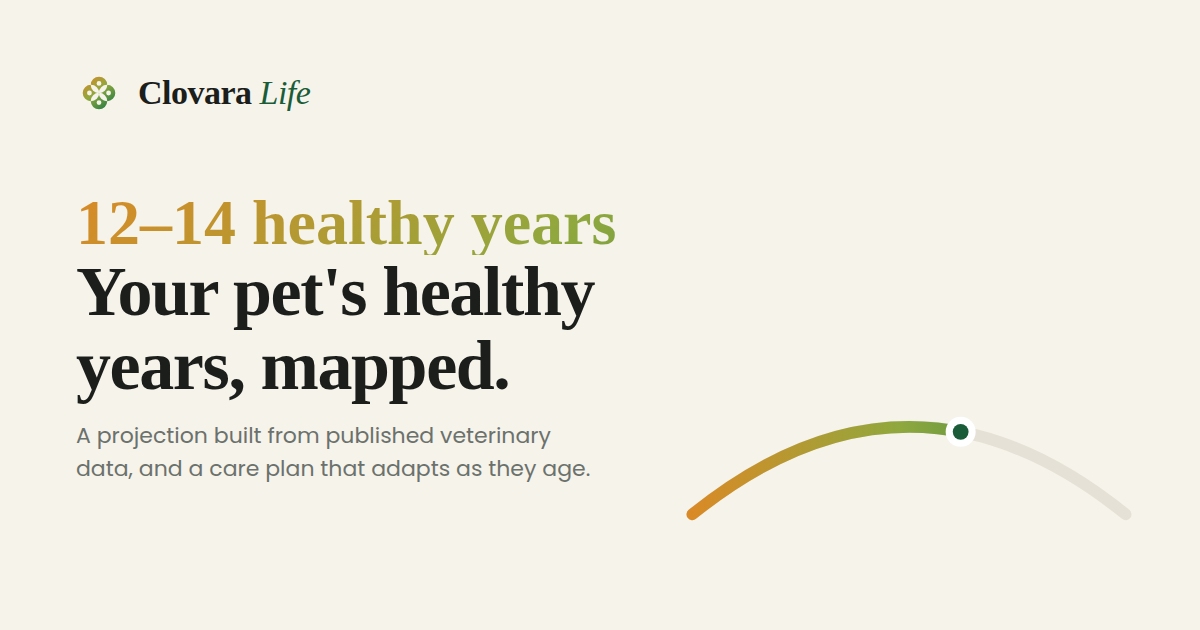
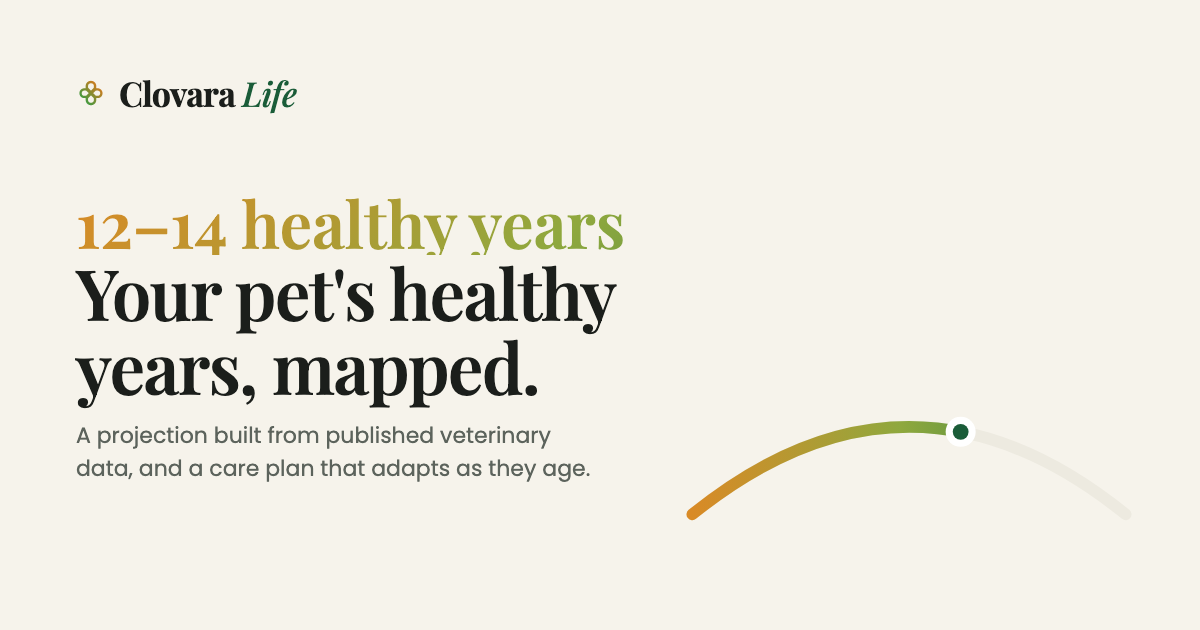
UI pass 2/6: one mark file — replace four redrawn clovers
DESIGN.md §1 lists two redrawn clovers to replace. The audit found four,
plus the generator that made a fifth:

- src/components/CloverMark.tsx drew four circles and four holes in a plus.
  It now imports assets/images/clovara_mark_refined.svg, which Vite
  fingerprints into one immutable asset (138kB, 23.6kB gzipped). Every in-app
  surface uses this component, so nine call sites follow. It renders as an
  <img>, so it cannot be recoloured, stretched or given effects, and returns
  nothing below the 20px minimum.
- public/favicon.svg was the circle-built approximation. It is now a
  byte-for-byte copy of the canonical, written by the icon script.
- public/partners/walkthrough.html defined its own rounded-rect mark with a
  hole mask and used it six times, one inside a JS string. All six are now
  <img src="mark.svg">; mark.svg was verified byte-identical to the canonical
  before use. The gradient def stays — the mockup's score ring uses it.
- src/share/renderCard.ts painted four circles on the canvas "so there was no
  asset to fetch". It now draws the canonical file, and draws no mark at all
  rather than a guess if loading fails.
- scripts/make-icons.mjs drew its own clover for og.png and the app icon.
  It now only places the canonical, copies it to favicon.svg and
  partners/mark.svg, and uses Playwright's own Chromium instead of a
  hard-coded Linux path it could not run on here.

The wordmark follows §1: Playfair Bold (700 now imported — a file from the
[…]

Changed region(s): [[0.0617, 0.3016, 0.5242, 0.5429], [0.0617, 0.5429, 0.4933, 0.754], [0.0617, 0.1206, 0.2775, 0.181]]

diff --git a/clovara-life/public/partners/walkthrough.html b/clovara-life/public/partners/walkthrough.html
@@ -188,7 +188,7 @@
 
   /* ---------- screen 5 coverage ---------- */
   .plan-card{background:var(--forest);color:#fff;border:none;position:relative;overflow:hidden}
-  .plan-card .cl{position:absolute;right:-24px;bottom:-34px;opacity:.14;transform:rotate(12deg)}
+  .plan-card .cl{position:absolute;right:-24px;bottom:-34px;opacity:.14;transform:rotate(12deg);filter:brightness(3)}
   .plan-card .k{font-size:10px;letter-spacing:.14em;text-transform:uppercase;opacity:.75;font-weight:600}
   .plan-card .t{font-family:'Playfair Display',serif;font-size:21px;font-weight:600;margin-top:4px}
   .plan-card .meta{display:flex;gap:18px;margin-top:14px}
@@ -257,7 +257,8 @@
 </style>
 </head>
 <body>
-<!-- Clover mark, reused via <use> -->
+<!-- The clover gradient, for the score ring only. The mark itself is mark.svg,
+     a byte-for-byte copy of assets/images/clovara_mark_refined.svg (DESIGN.md §1). -->
 <svg width="0" height="0" style="position:absolute">
   <defs>
     <linearGradient id="cloverGrad" x1="0.15" y1="0" x2="0.85" y2="1">
@@ -265,28 +266,13 @@
       <stop offset="0.5" stop-color="#8FA83E"/>
       <stop offset="1" stop-color="#1E7A46"/>
     </linearGradient>
-    <mask id="cloverHoles">
-      <rect x="-100" y="-100" width="200" height="200" fill="white"/>
-      <circle cx="0" cy="-42" r="13" fill="black"/>
-      <circle cx="42" cy="0" r="13" fill="black"/>
-      <circle cx="0" cy="42" r="13" fill="black"/>
-      <circle cx="-42" cy="0" r="13" fill="black"/>
-    </mask>
-    <g id="cloverMark">
-      <g mask="url(#cloverHoles)" fill="url(#cloverGrad)">
-        <rect x="-27" y="-70" width="54" height="60" rx="26"/>
-        <rect x="10" y="-27" width="60" height="54" rx="26"/>
-        <rect x="-27" y="10" width="54" height="60" rx="26"/>
-        <rect x="-70" y="-27" width="60" height="54" rx="26"/>
-      </g>
-    </g>
   </defs>
 </svg>
 
 <div class="shell">
   <header class="top">
     <div class="brand">
-      <svg width="34" height="34" viewBox="-75 -75 150 150" aria-hidden="true"><use href="#cloverMark"/></svg>
+      <img src="mark.svg" alt="" width="34" height="34">
       <span class="word">Clovara</span>
     </div>
     <div class="preview-tag">Platform concept · Investor preview</div>
@@ -543,7 +529,7 @@ shop:`
     </div>
   </div>
   <div class="card member-strip" style="margin-top:12px">
-    <svg width="26" height="26" viewBox="-75 -75 150 150"><use href="#cloverMark"/></svg>
+    <img src="mark.svg" alt="" width="26" height="26">
     <div class="t">Total Care members save on every order — and earn points back on the products that keep Max healthy.</div>
   </div>`,
 
@@ -554,7 +540,7 @@ offer:`
     <div class="app-sub">Priced from his plan — nothing to fill in</div>
   </div>
   <div class="card plan-card">
-    <svg class="cl" width="120" height="120" viewBox="-75 -75 150 150"><use href="#cloverMark"/></svg>
+    <img src="mark.svg" alt="" class="cl" width="120" height="120">
     <div class="k">Recommended for Max</div>
     <div class="t serif">Clovara Complete</div>
     <div style="font-family:'Playfair Display',serif;font-size:34px;font-weight:700;margin-top:10px">$46.20<span style="font-size:13px;font-weight:500;opacity:.8"> /month</span></div>
@@ -566,7 +552,7 @@ offer:`
   </div>
   <div class="card" style="background:var(--sage);border:none">
     <div style="display:flex;gap:10px;align-items:flex-start">
-      <svg width="20" height="20" viewBox="-75 -75 150 150" style="flex-shrink:0;margin-top:2px"><use href="#cloverMark"/></svg>
+      <img src="mark.svg" alt="" width="20" height="20" style="flex-shrink:0;margin-top:2px">
       <div style="font-size:11px;color:var(--forest-deep);line-height:1.6"><b>Why this plan:</b> a 6-year-old Golden with a hip watch does best with high reimbursement before senior years. Priced by the same engine that built his plan.</div>
     </div>
   </div>
@@ -616,7 +602,7 @@ coverage:`
     <div class="app-sub">Max · policy CLV-208114</div>
   </div>
   <div class="card plan-card">
-    <svg class="cl" width="120" height="120" viewBox="-75 -75 150 150"><use href="#cloverMark"/></svg>
+    <img src="mark.svg" alt="" class="cl" width="120" height="120">
     <div class="k">Accident &amp; Illness</div>
     <div class="t serif">Clovara Complete</div>
     <div class="meta">
@@ -736,7 +722,7 @@ const nEyebrow = document.getElementById('nEyebrow');
 const nTitle   = document.getElementById('nTitle');
 const nDesc    = document.getElementById('nDesc');
 const nPoints  = document.getElementById('nPoints');
-const CHECK = '<svg class="mark" viewBox="-75 -75 150 150"><use href="#cloverMark"/></svg>';
+const CHECK = '<img src="mark.svg" alt="" class="mark">';
 
 let cur = 0;
 function go(i){

diff --git a/clovara-life/src/components/CloverMark.tsx b/clovara-life/src/components/CloverMark.tsx
@@ -1,67 +1,73 @@
 /**
- * The Clovara mark: four rounded lobes with circular holes, arranged in a plus
- * formation, filled with the signature orange-to-green gradient.
+ * The Clovara mark — and the only place the app renders it.
  *
- * Drawn as a single evenodd path so the holes are genuinely transparent rather
- * than punched with a matching background colour — it sits correctly on cream,
- * on white and on green.
+ * docs/DESIGN.md §1: every rendering of the clover derives from
+ * `assets/images/clovara_mark_refined.svg`, and redrawing it is prohibited.
+ * This component used to draw its own: four circles and four holes in a plus,
+ * which the design system lists as drift. It now imports the canonical file,
+ * so Vite fingerprints it into one immutable, cacheable asset and every surface
+ * that shows the mark shows the same one.
+ *
+ * Rendered as an <img>, so it cannot be recoloured, stretched or given effects —
+ * which are three of the things §1 forbids. The SVG's own viewBox keeps its
+ * aspect ratio inside a square box.
  */
+import markUrl from '../../../assets/images/clovara_mark_refined.svg'
 
-const circle = (cx: number, cy: number, r: number) =>
-  `M${cx - r},${cy}a${r},${r} 0 1,0 ${r * 2},0a${r},${r} 0 1,0 ${-r * 2},0`
+/** §1: "minimum render 20px (below that, omit)". */
+export const MARK_MIN_PX = 20
 
-const LOBE_R = 8.6
-const HOLE_R = 2.5
-const OFFSET = 8.4
-const C = 24
-
-const lobes = [
-  [C, C - OFFSET],
-  [C + OFFSET, C],
-  [C, C + OFFSET],
-  [C - OFFSET, C],
-] as const
-
-// Holes sit slightly toward the centre of each lobe's outer half.
-const holes = [
-  [C, C - OFFSET - 1.6],
-  [C + OFFSET + 1.6, C],
-  [C, C + OFFSET + 1.6],
-  [C - OFFSET - 1.6, C],
-] as const
-
-const path = [
-  ...lobes.map(([x, y]) => circle(x, y, LOBE_R)),
-  ...holes.map(([x, y]) => circle(x, y, HOLE_R)),
-].join(' ')
-
-export function CloverMark({ size = 30, id = 'clover' }: { size?: number; id?: string }) {
+export function CloverMark({
+  size = 30,
+  label = 'Clovara',
+  watermark = false,
+}: {
+  size?: number
+  /** Empty string when the mark is decorative next to the word "Clovara". */
+  label?: string
+  /**
+   * §1 watermark exception: forest surfaces only. The caller supplies the 12°
+   * rotation and 14% opacity on its wrapper; this brightens the gradient so it
+   * reads against forest rather than disappearing into it, as styleguide.html
+   * does.
+   */
+  watermark?: boolean
+}) {
+  if (size < MARK_MIN_PX) return null
   return (
-    <svg
+    <img
+      src={markUrl}
       width={size}
       height={size}
-      viewBox="0 0 48 48"
-      role="img"
-      aria-label="Clovara"
-      className="shrink-0"
-    >
-      <defs>
-        <linearGradient id={`${id}-grad`} x1="8%" y1="0%" x2="82%" y2="100%">
-          <stop offset="0%" stopColor="#D98A26" />
-          <stop offset="48%" stopColor="#8FA83E" />
-          <stop offset="100%" stopColor="#1E7A46" />
-        </linearGradient>
-      </defs>
-      <path d={path} fill={`url(#${id}-grad)`} fillRule="evenodd" clipRule="evenodd" />
-    </svg>
+      alt={label}
+      aria-hidden={label === '' ? true : undefined}
+      draggable={false}
+      className="shrink-0 select-none"
+      style={watermark ? { filter: 'brightness(3)' } : undefined}
+    />
   )
 }
 
-export function Wordmark({ size = 30 }: { size?: number }) {
+/**
+ * The wordmark: "Clovara" in Playfair Display Bold, ink, −0.02em, with the mark
+ * at cap-height × 1.25 and a 10–14px gap (§1).
+ *
+ * Playfair's cap height is about 0.708em, so the mark is 0.885 × the font size —
+ * floored at the 20px minimum, which at the header's size is the binding rule.
+ *
+ * "Life" is kept, in italic forest: it is the product's sub-brand and is on
+ * every surface that says which product you are in. §1 specifies the wordmark as
+ * "Clovara" alone; the lockup is flagged for Conor rather than removed.
+ */
+export function Wordmark({ fontSize = 22 }: { fontSize?: number }) {
+  const mark = Math.max(MARK_MIN_PX, Math.round(fontSize * 0.708 * 1.25))
   return (
-    <span className="inline-flex items-center gap-2.5">
-      <CloverMark size={size} />
-      <span className="font-display text-[21px] font-semibold leading-none tracking-[-0.015em] text-ink">
+    <span className="inline-flex items-center gap-3">
+      <CloverMark size={mark} label="" />
+      <span
+        className="font-display font-bold leading-none tracking-[-0.02em] text-ink"
+        style={{ fontSize }}
+      >
         Clovara <span className="font-medium italic text-forest">Life</span>
       </span>
     </span>

diff --git a/clovara-life/src/share/renderCard.ts b/clovara-life/src/share/renderCard.ts
@@ -8,6 +8,7 @@ import {
   wrapText,
   type Measure,
 } from './cardLayout'
+import markUrl from '../../../assets/images/clovara_mark_refined.svg'
 
 /**
  * Draws a shareable card (SPEC §6.1, §6.7) and hands back a PNG.
@@ -29,7 +30,6 @@ const FOREST = '#1A5C38'
 const DEEP = '#0F3D26'
 const INK_2 = '#5C635C'
 const LINE = '#E5E1D5'
-const ACCENT = '#D98A26'
 
 const DISPLAY = '"Playfair Display", Georgia, serif'
 const SANS = 'Poppins, system-ui, -apple-system, sans-serif'
@@ -75,21 +75,15 @@ function roundRect(ctx: CanvasRenderingContext2D, x: number, y: number, w: numbe
   ctx.closePath()
 }
 
-/** The clover, drawn rather than loaded — four leaves, no asset to fetch. */
-function drawClover(ctx: CanvasRenderingContext2D, cx: number, cy: number, r: number) {
-  const leaf = r * 0.52
-  const offsets: [number, number, string][] = [
-    [-leaf * 0.62, -leaf * 0.62, ACCENT],
-    [leaf * 0.62, -leaf * 0.62, '#8FA83E'],
-    [-leaf * 0.62, leaf * 0.62, '#8FA83E'],
-    [leaf * 0.62, leaf * 0.62, FOREST],
-  ]
-  for (const [dx, dy, colour] of offsets) {
-    ctx.beginPath()
-    ctx.fillStyle = colour
-    ctx.arc(cx + dx, cy + dy, leaf, 0, Math.PI * 2)
-    ctx.fill()
-  }
+/**
+ * The canonical mark (DESIGN.md §1), loaded rather than drawn. This used to paint
+ * four circles "so there was no asset to fetch" — a third redrawn clover. The
+ * file is fingerprinted and almost always already cached from the header, and a
+ * card whose mark fails to load is drawn without one rather than with a guess.
+ */
+function drawMark(ctx: CanvasRenderingContext2D, mark: HTMLImageElement | null, x: number, y: number, size: number) {
+  if (!mark) return
+  ctx.drawImage(mark, x, y, size, size)
 }
 
 /**
@@ -127,16 +121,22 @@ async function drawCard(content: CardContent): Promise<Blob | null> {
   ctx.stroke()
 
   // ── Wordmark ─────────────────────────────────────────────────────────────
-  drawClover(ctx, CARD_PADDING + 22, CARD_PADDING + 14, 26)
+  // §1: Playfair Bold, −0.02em, mark at cap-height × 1.25 (34px → 30px), gap 12.
+  const mark = await loadImage(markUrl)
+  drawMark(ctx, mark, CARD_PADDING, CARD_PADDING - 1, 30)
   ctx.textAlign = 'left'
   ctx.textBaseline = 'middle'
   ctx.fillStyle = INK
-  ctx.font = `600 34px ${DISPLAY}`
-  ctx.fillText('Clovara', CARD_PADDING + 62, CARD_PADDING + 14)
+  ctx.font = `700 34px ${DISPLAY}`
+  if ('letterSpacing' in ctx) (ctx as CanvasRenderingContext2D & { letterSpacing: string }).letterSpacing = '-0.68px'
+  const WORD_X = CARD_PADDING + 42
+  ctx.fillText('Clovara', WORD_X, CARD_PADDING + 14)
+  // Measured with the tracking still applied, so "Life" sits where the word ends.
   const clovaraWidth = ctx.measureText('Clovara').width
+  if ('letterSpacing' in ctx) (ctx as CanvasRenderingContext2D & { letterSpacing: string }).letterSpacing = '0px'
   ctx.fillStyle = FOREST
   ctx.font = `italic 500 34px ${DISPLAY}`
-  ctx.fillText('Life', CARD_PADDING + 62 + clovaraWidth + 12, CARD_PADDING + 14)
+  ctx.fillText('Life', WORD_X + clovaraWidth + 9, CARD_PADDING + 14)
 
   // ── Portrait ─────────────────────────────────────────────────────────────
   const { cx, cy, r } = portraitCircle()

diff --git a/clovara-life/src/components/AccountSheet.tsx b/clovara-life/src/components/AccountSheet.tsx
@@ -78,7 +78,7 @@ export function AccountSheet({
         {user ? (
           <div className="space-y-5">
             <div className="flex items-center gap-2.5">
-              <CloverMark size={24} id="acct" />
+              <CloverMark size={24} />
               <h2 id="account-title" className="font-display text-[22px] leading-tight text-ink">
                 Signed in
               </h2>
@@ -143,7 +143,7 @@ export function AccountSheet({
           <form className="space-y-5" onSubmit={submit}>
             <div>
               <div className="mb-2 flex items-center gap-2.5">
-                <CloverMark size={24} id="acct" />
+                <CloverMark size={24} />
                 <h2 id="account-title" className="font-display text-[22px] leading-tight text-ink">
                   {needsEmailForLink ? 'Confirm your email' : 'Sign in to Clovara'}
                 </h2>

diff --git a/clovara-life/src/App.tsx b/clovara-life/src/App.tsx
@@ -476,7 +476,7 @@ export default function App() {
             className="flex min-h-[40px] shrink-0 items-center"
             aria-label="Clovara Life home"
           >
-            <Wordmark size={28} />
+            <Wordmark />
           </button>
 
           {!adding && (
@@ -652,7 +652,7 @@ export default function App() {
         <div className="mx-auto max-w-shell px-5 py-8">
           <div className="flex flex-col gap-4 sm:flex-row sm:items-start sm:justify-between">
             <div className="flex items-center gap-2.5">
-              <CloverMark size={22} id="footer" />
+              <CloverMark size={22} />
               <span className="font-display text-[16px] text-ink">Clovara Life</span>
             </div>
             <div className="max-w-[62ch] space-y-2">

diff --git a/clovara-life/src/components/Coverage.tsx b/clovara-life/src/components/Coverage.tsx
@@ -28,7 +28,7 @@ export function Coverage({ pet, projection }: { pet: PetProfile; projection: Pro
           {/* ── Plan card ─────────────────────────────────────────────── */}
           <section className="card relative overflow-hidden bg-forest p-0 text-white">
             <div aria-hidden="true" className="pointer-events-none absolute -bottom-8 -right-6 rotate-12 opacity-[0.14]">
-              <CloverMark size={140} id="cov" />
+              <CloverMark size={140} label="" watermark />
             </div>
             <div className="relative px-6 py-6">
               <p className="text-[11px] font-medium uppercase tracking-[0.14em] text-white/70">

diff --git a/clovara-life/vite.config.ts b/clovara-life/vite.config.ts
@@ -3,6 +3,10 @@ import react from '@vitejs/plugin-react'
 
 export default defineConfig({
   plugins: [react()],
+  // The canonical mark lives at the repo root (docs/DESIGN.md §1) and the app
+  // imports it rather than keeping a copy. Build resolves it anywhere; the dev
+  // server needs telling. Only that one directory, not the whole repo.
+  server: { fs: { allow: ['.', '../assets/images'] } },
   test: {
     // `functions/` is a separate CommonJS codebase tested with node:test
     // (`npm test --prefix functions`). Vitest must not try to collect it.

diff --git a/clovara-life/src/main.tsx b/clovara-life/src/main.tsx
@@ -8,6 +8,9 @@ import { AuthProvider } from './auth/AuthProvider'
 // fetch — they were 1.5MB of deploy weight for nothing.
 import '@fontsource/playfair-display/latin-500.css'
 import '@fontsource/playfair-display/latin-600.css'
+// DESIGN.md §3: `stat` and the wordmark are Playfair 700. Already in the
+// installed package — a file, not a dependency.
+import '@fontsource/playfair-display/latin-700.css'
 import '@fontsource/playfair-display/latin-500-italic.css'
 import '@fontsource/poppins/latin-300.css'
 import '@fontsource/poppins/latin-400.css'

diff --git a/clovara-life/src/components/ErrorBoundary.tsx b/clovara-life/src/components/ErrorBoundary.tsx
@@ -51,7 +51,7 @@ export class ErrorBoundary extends Component<Props, State> {
       <div className="flex min-h-screen items-center justify-center bg-cream px-5 py-10">
         <div className="card w-full max-w-[440px] px-6 py-8 text-center">
           <div className="mx-auto mb-5 w-fit">
-            <CloverMark size={36} id="err" />
+            <CloverMark size={36} />
           </div>
           <h1 className="font-display text-[26px] leading-tight text-ink">
             Something went wrong

diff --git a/clovara-life/src/components/Shop.tsx b/clovara-life/src/components/Shop.tsx
@@ -206,7 +206,7 @@ export function Shop({
       )}
 
       <section className="card mt-6 flex flex-wrap items-center gap-4 bg-sage/60 px-5 py-4">
-        <CloverMark size={26} id="shop" />
+        <CloverMark size={26} />
         <p className="min-w-[12rem] flex-1 text-[14px] leading-relaxed text-deep">
           Total Care members save on every order and earn points back on the products that keep
           {' '}{pet.name} healthy. Membership is priced separately from insurance.

diff --git a/clovara-life/src/components/Onboarding.tsx b/clovara-life/src/components/Onboarding.tsx
@@ -170,7 +170,7 @@ export function Onboarding({ onComplete, onCancel }: Props) {
     <div className="mx-auto w-full max-w-[620px] px-5 py-10 sm:py-16">
       <div className="mb-7 flex items-center justify-between gap-4">
         <div className="flex items-center gap-2.5">
-          <CloverMark size={26} id="onb" />
+          <CloverMark size={26} />
           <span className="label">
             Step {step + 1} of {STEPS.length} · {STEPS[step]}
           </span>

diff --git a/clovara-life/src/components/DataCovenant.tsx b/clovara-life/src/components/DataCovenant.tsx
@@ -16,7 +16,7 @@ export function DataCovenant({ onClose }: { onClose: () => void }) {
     <div className="mx-auto w-full max-w-[680px] px-5 pb-24 pt-8 sm:pt-12">
       <div className="mb-8 flex items-center justify-between gap-4">
         <div className="flex items-center gap-2.5">
-          <CloverMark size={26} id="cov" />
+          <CloverMark size={26} />
           <span className="label">Clovara</span>
         </div>
         <button
